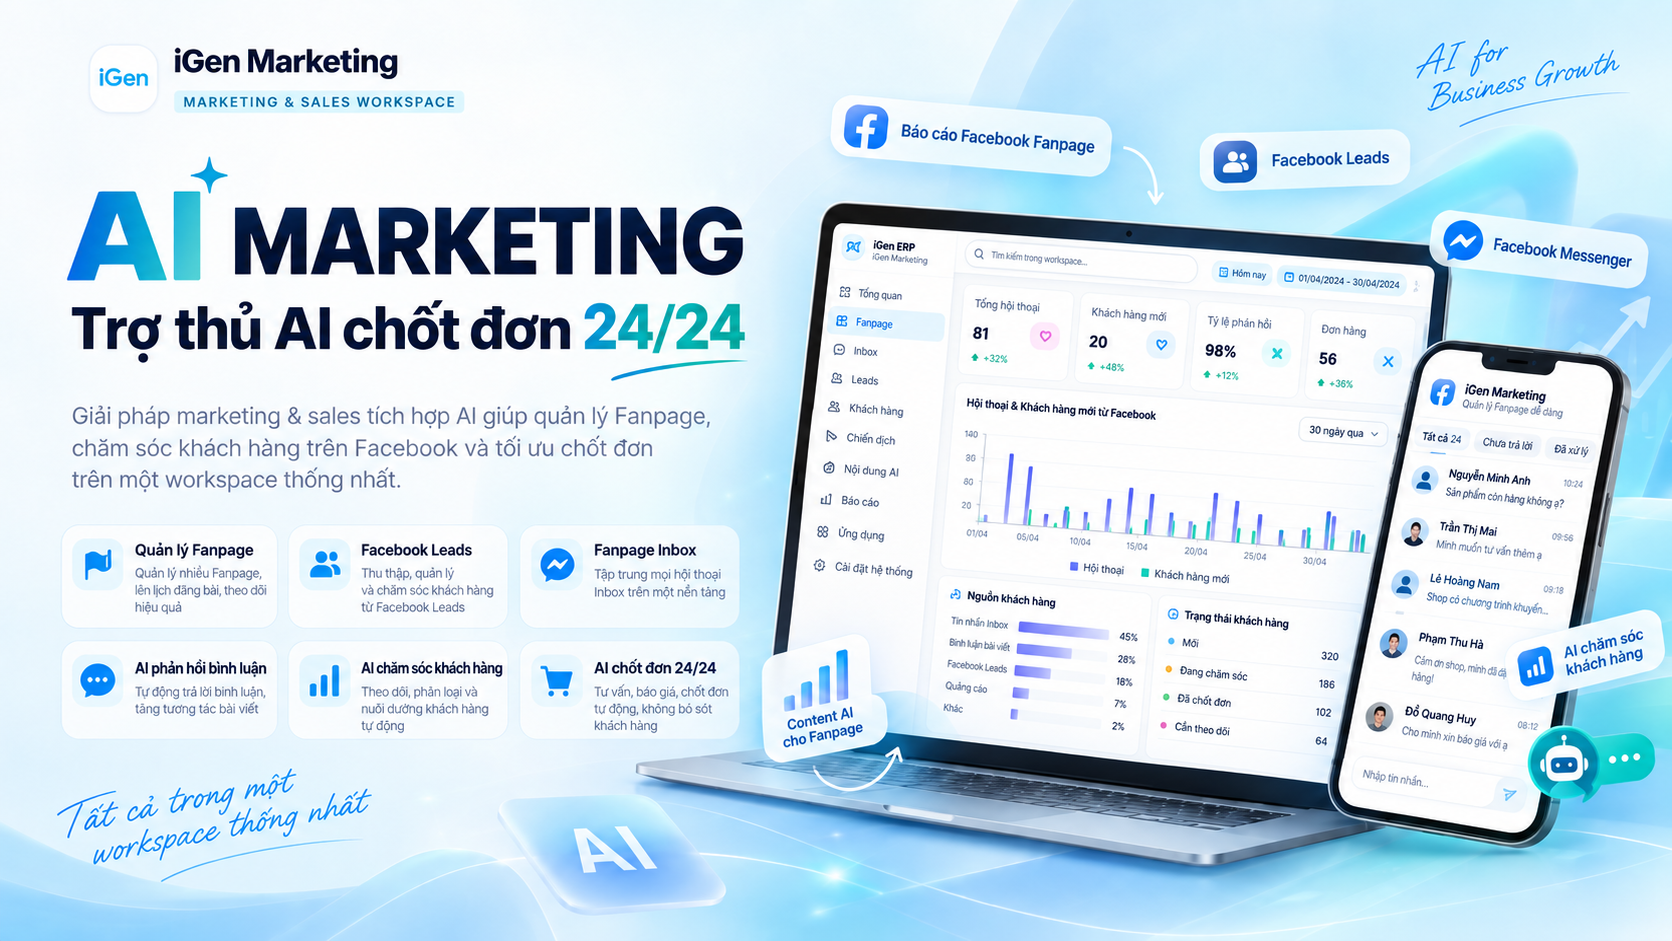
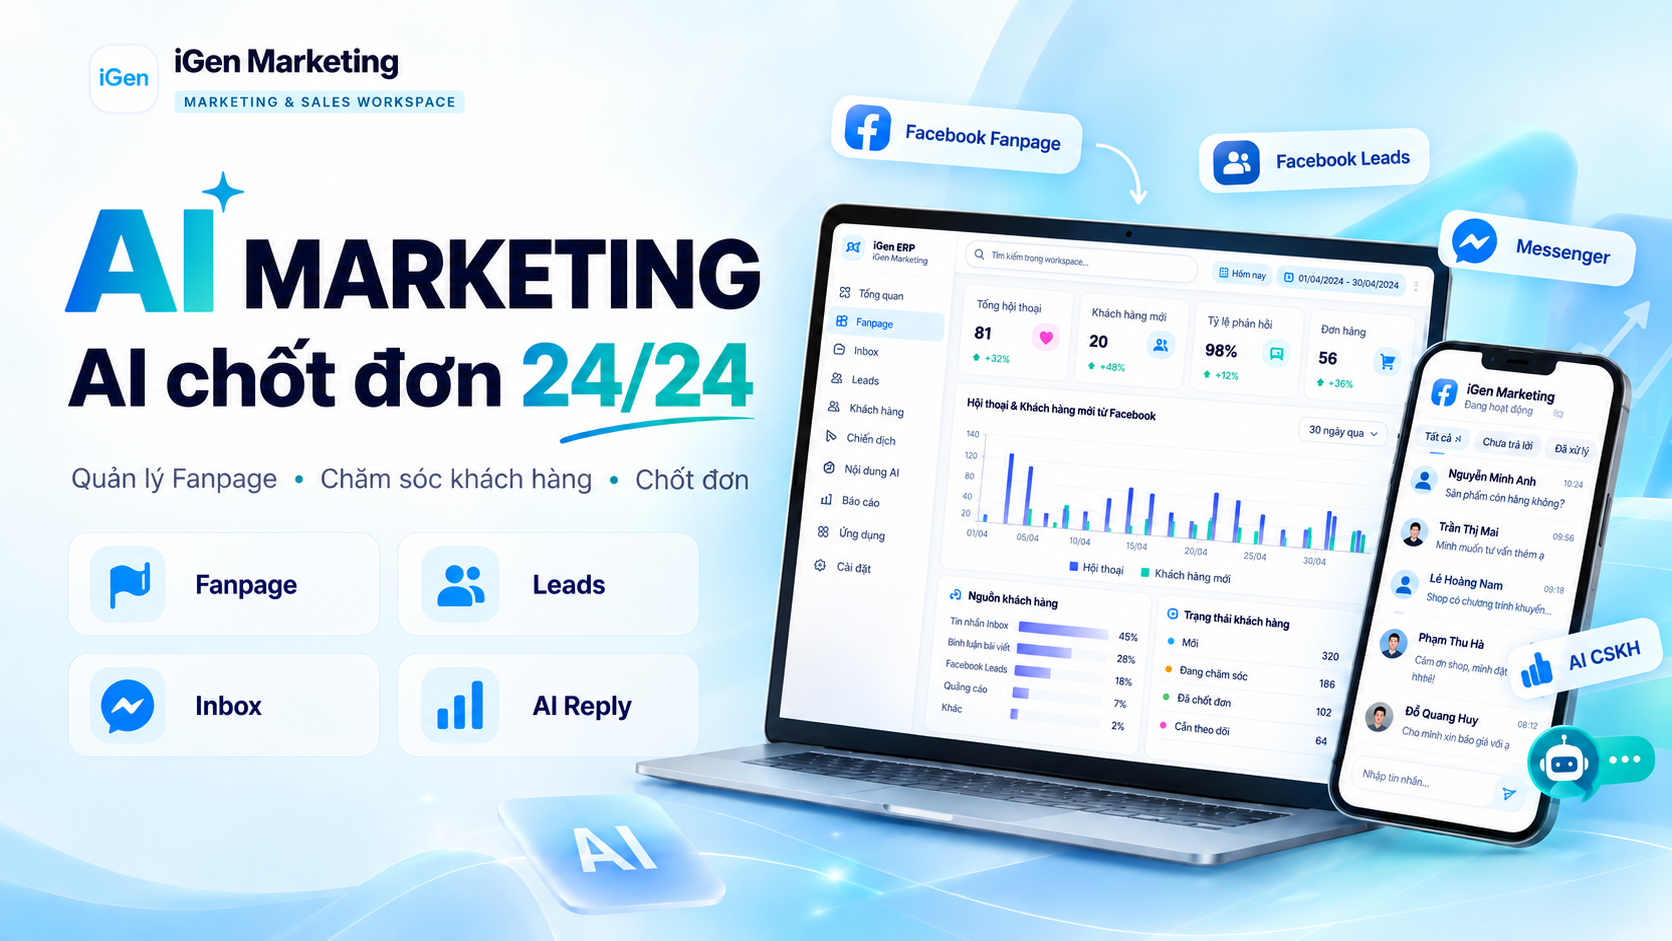
feat(ui): update marketing image and add iGen Kien truc su product slide

diff --git a/frontend/src/pages/Products.tsx b/frontend/src/pages/Products.tsx
@@ -7,6 +7,7 @@ import luxcareImg from '../assets/product/luxcare.png';
 import marketingImg from '../assets/product/marketing.png';
 import banHangImg from '../assets/product/ban-hang.png';
 import ptImg from '../assets/product/pt.png';
+import kienTrucSuImg from '../assets/product/kien-truc-su.png';
 
 interface ProductItem {
   id: string;
@@ -92,7 +93,7 @@ const PRODUCTS: ProductItem[] = [
     name: 'iGen Marketing',
     category: 'Workspace & Tự Động Hóa',
     headline: 'AI Marketing & Sales Workspace',
-    tagline: 'Trợ thủ AI chốt đơn 24/7 – Tối ưu hóa doanh số bán hàng đa kênh',
+    tagline: 'Quản lý Fanpage • Chăm sóc khách hàng • AI Chốt đơn 24/24',
     description:
       'Đồng bộ quản lý đa Fanpage, tự động phản hồi bình luận, gom tin nhắn tập trung và nuôi dưỡng khách hàng tiềm năng bằng AI tiếng Việt.',
     image: marketingImg,
@@ -104,13 +105,13 @@ const PRODUCTS: ProductItem[] = [
       glow: 'shadow-[0_12px_36px_rgba(2,132,199,0.28)]',
     },
     features: [
-      { icon: 'dynamic_feed', title: 'Quản lý đa Fanpage', desc: 'Kết nối không giới hạn fanpage, quản lý nội dung một điểm.' },
-      { icon: 'smart_toy', title: 'AI Chốt đơn 24/7', desc: 'Tự động phản hồi bình luận, tư vấn và gửi báo giá tức thì.' },
-      { icon: 'chat', title: 'Hộp thư gom tập trung', desc: 'Hợp nhất toàn bộ tin nhắn đa kênh về một giao diện xử lý.' },
-      { icon: 'leaderboard', title: 'Thu thập & Đo lường Leads', desc: 'Theo dõi tỷ lệ chuyển đổi và tự động lưu data khách hàng.' },
+      { icon: 'dynamic_feed', title: 'Quản lý đa Fanpage', desc: 'Kết nối không giới hạn fanpage, quản lý nội dung và lịch đăng bài một điểm.' },
+      { icon: 'leaderboard', title: 'Facebook Leads', desc: 'Thu thập, phân loại và tự động nuôi dưỡng tệp khách hàng tiềm năng.' },
+      { icon: 'chat', title: 'Hộp thư đa kênh (Inbox)', desc: 'Hợp nhất toàn bộ tin nhắn Messenger, bình luận về một giao diện xử lý.' },
+      { icon: 'smart_toy', title: 'AI Reply & Chốt đơn 24/24', desc: 'Trợ thủ AI hiểu ngữ cảnh tiếng Việt, tư vấn và gửi báo giá tự động.' },
     ],
     stats: [
-      { value: '24/7', label: 'Phản hồi tức thì' },
+      { value: '24/24', label: 'Phản hồi tức thì' },
       { value: '3×', label: 'Tốc độ chốt đơn' },
       { value: '80%', label: 'Tiết kiệm chi phí trực page' },
     ],
@@ -173,6 +174,35 @@ const PRODUCTS: ProductItem[] = [
       { value: 'App/Web', label: 'Linh hoạt mọi thiết bị' },
     ],
     targetAudience: 'PT cá nhân, Phòng Gym, Studio Yoga & Fitness',
+  },
+  {
+    id: 'igen-kien-truc-su',
+    name: 'iGen Kiến trúc sư',
+    category: 'AI Thiết Kế & 3D',
+    headline: 'Render & Thiết Kế Thông Minh',
+    tagline: 'Ngoại thất • Nội thất • Floorplan to 3D – Ý tưởng thành hiện thực',
+    description:
+      'Nền tảng AI chuyên biệt cho kiến trúc sư và thiết kế nội ngoại thất. Dựng phối cảnh 3D siêu tốc từ bản vẽ 2D, render không gian thực tế ảo VR 360 và quy hoạch masterplan trực quan.',
+    image: kienTrucSuImg,
+    accent: {
+      text: 'text-[#0284c7]',
+      bg: 'bg-[#0284c7]/10',
+      border: 'border-[#0284c7]/30',
+      gradient: 'from-[#0284c7] to-[#0369a1]',
+      glow: 'shadow-[0_12px_36px_rgba(2,132,199,0.28)]',
+    },
+    features: [
+      { icon: 'bolt', title: 'Render siêu tốc', desc: 'Tạo phối cảnh 3D ngoại thất và nội thất chân thực chỉ trong vài giây bằng AI.' },
+      { icon: 'view_in_ar', title: 'Không gian VR 360', desc: 'Trải nghiệm không gian ảo sống động, giúp khách hàng hình dung trực quan.' },
+      { icon: 'grid_view', title: 'Floorplan to 3D', desc: 'Chuyển đổi bản vẽ mặt bằng 2D thành mô hình kiến trúc 3D chuẩn xác.' },
+      { icon: 'auto_awesome', title: 'AI Hỗ trợ & Masterplan', desc: 'Hỗ trợ quy hoạch phối cảnh tổng thể và tinh chỉnh ý tưởng thiết kế tức thì.' },
+    ],
+    stats: [
+      { value: '10s', label: 'Tốc độ render phối cảnh' },
+      { value: '3D & VR', label: 'Đa định dạng không gian' },
+      { value: '85%', label: 'Tiết kiệm thời gian dựng hình' },
+    ],
+    targetAudience: 'Kiến trúc sư, Nhà thiết kế Nội thất, Công ty Xây dựng & Bất động sản',
   },
 ];
 
